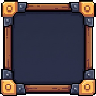
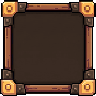
feat: add 5 cozy Pixel Art house scenes and warm dark-wood theme harmony

diff --git a/lib/features/house/house_tab.dart b/lib/features/house/house_tab.dart
@@ -99,8 +99,9 @@ class HouseTab extends ConsumerWidget {
               ),
               const SizedBox(height: 12),
 
-              // Sala 16-bit (usa cenário Pixel Art em assets/images/scenes/ se existir, ou gradiente temático)
-              ClipRect(
+              // Sala 16-bit com cenário Pixel Art 16:9 + Herói posicionado no chão
+              AspectRatio(
+                aspectRatio: 16 / 10,
                 child: Container(
                   width: double.infinity,
                   decoration: BoxDecoration(
@@ -112,125 +113,110 @@ class HouseTab extends ConsumerWidget {
                     border: Border.all(color: LifeOsColors.border, width: 2),
                   ),
                   child: Stack(
-                    alignment: Alignment.bottomCenter,
+                    fit: StackFit.expand,
                     children: [
-                      Positioned.fill(
-                        child: Image.asset(
-                          sceneAsset,
-                          fit: BoxFit.cover,
-                          filterQuality: FilterQuality.none,
-                          errorBuilder: (_, _, _) => const SizedBox.shrink(),
-                        ),
+                      Image.asset(
+                        sceneAsset,
+                        fit: BoxFit.cover,
+                        filterQuality: FilterQuality.none,
+                        errorBuilder: (_, _, _) => const SizedBox.shrink(),
                       ),
-                      Container(
-                        width: double.infinity,
-                        padding: const EdgeInsets.fromLTRB(14, 18, 14, 16),
+                      // Vinheta suave só na base para leitura e profundidade
+                      DecoratedBox(
                         decoration: BoxDecoration(
                           gradient: LinearGradient(
                             begin: Alignment.topCenter,
                             end: Alignment.bottomCenter,
+                            stops: const [0.0, 0.65, 1.0],
                             colors: [
-                              Colors.black.withValues(alpha: 0.12),
-                              Colors.black.withValues(alpha: 0.45),
+                              Colors.black.withValues(alpha: 0.08),
+                              Colors.transparent,
+                              Colors.black.withValues(alpha: 0.55),
                             ],
                           ),
                         ),
-                        child: Column(
-                          children: [
-                            if (ownedFurniture.isNotEmpty) ...[
-                              Wrap(
-                                spacing: 10,
-                                runSpacing: 8,
-                                alignment: WrapAlignment.center,
-                                children: ownedFurniture.map((f) {
-                                  return Tooltip(
-                                    message: '${f.name}: ${f.effectBadge}',
-                                    child: Container(
-                                      padding: const EdgeInsets.all(8),
-                                      decoration: BoxDecoration(
-                                        color: LifeOsColors.bgDark
-                                            .withValues(alpha: 0.8),
-                                        border: Border.all(
-                                          color: f.color,
-                                          width: 1.5,
-                                        ),
-                                      ),
-                                      child: Icon(
-                                        f.icon,
-                                        color: f.color,
-                                        size: 22,
-                                      ),
+                      ),
+                      // Móveis comprados exibidos no topo da cena
+                      if (ownedFurniture.isNotEmpty)
+                        Positioned(
+                          top: 8,
+                          left: 8,
+                          right: 8,
+                          child: Wrap(
+                            spacing: 6,
+                            runSpacing: 6,
+                            alignment: WrapAlignment.center,
+                            children: ownedFurniture.map((f) {
+                              return Tooltip(
+                                message: '${f.name}: ${f.effectBadge}',
+                                child: Container(
+                                  padding: const EdgeInsets.all(5),
+                                  decoration: BoxDecoration(
+                                    color: LifeOsColors.bgDark
+                                        .withValues(alpha: 0.78),
+                                    border: Border.all(
+                                      color: f.color,
+                                      width: 1.5,
                                     ),
-                                  );
-                                }).toList(),
-                              ),
-                              const SizedBox(height: 16),
-                            ],
-                            Row(
-                              mainAxisAlignment: MainAxisAlignment.center,
-                              crossAxisAlignment: CrossAxisAlignment.end,
-                              children: [
-                                HeroSpriteWidget(
-                                  assetPath: heroClass.spriteAsset,
-                                  size: 96,
-                                ),
-                                if (equippedPet != null) ...[
-                                  const SizedBox(width: 14),
-                                  Column(
-                                    children: [
-                                      Container(
-                                        padding: const EdgeInsets.all(8),
-                                        decoration: BoxDecoration(
-                                          color: LifeOsColors.bgDark,
-                                          border: Border.all(
-                                            color: equippedPet.color,
-                                            width: 2,
-                                          ),
-                                        ),
-                                        child: Icon(
-                                          equippedPet.icon,
-                                          color: equippedPet.color,
-                                          size: 28,
-                                        ),
-                                      ),
-                                      const SizedBox(height: 4),
-                                      Text(
-                                        equippedPet.name.split(' ').first,
-                                        style: TextStyle(
-                                          fontSize: 11,
-                                          fontWeight: FontWeight.w800,
-                                          color: equippedPet.color,
-                                        ),
-                                      ),
-                                    ],
                                   ),
-                                ],
-                              ],
+                                  child: Icon(
+                                    f.icon,
+                                    color: f.color,
+                                    size: 16,
+                                  ),
+                                ),
+                              );
+                            }).toList(),
+                          ),
+                        ),
+                      // Herói animado + Pet em pé sobre o tapete/chão da cena
+                      Align(
+                        alignment: const Alignment(0, 0.68),
+                        child: Row(
+                          mainAxisSize: MainAxisSize.min,
+                          crossAxisAlignment: CrossAxisAlignment.end,
+                          children: [
+                            HeroSpriteWidget(
+                              assetPath: heroClass.spriteAsset,
+                              size: 86,
                             ),
-                            const SizedBox(height: 10),
-                            Container(
-                              height: 8,
-                              width: double.infinity,
-                              color: const Color(0xFF4A362C),
-                            ),
-                            const SizedBox(height: 10),
-                            Text(
-                              equippedScene != null
-                                  ? equippedScene.name
-                                  : (nextStage != null
-                                      ? 'Próxima evolução: ${nextStage.nextName} (Nv. ${nextStage.nextLevel})'
-                                      : 'Sua Casa alcançou o estágio máximo!'),
-                              style: const TextStyle(
-                                fontSize: 12,
-                                color: LifeOsColors.textPrimary,
-                                fontWeight: FontWeight.w800,
+                            if (equippedPet != null) ...[
+                              const SizedBox(width: 8),
+                              Container(
+                                padding: const EdgeInsets.all(6),
+                                decoration: BoxDecoration(
+                                  color: LifeOsColors.bgDark
+                                      .withValues(alpha: 0.85),
+                                  border: Border.all(
+                                    color: equippedPet.color,
+                                    width: 1.5,
+                                  ),
+                                ),
+                                child: Icon(
+                                  equippedPet.icon,
+                                  color: equippedPet.color,
+                                  size: 22,
+                                ),
                               ),
-                            ),
+                            ],
                           ],
                         ),
                       ),
                     ],
                   ),
+                ),
+              ),
+              const SizedBox(height: 10),
+              Text(
+                equippedScene != null
+                    ? equippedScene.name
+                    : (nextStage != null
+                        ? 'Próxima evolução: ${nextStage.nextName} (Nv. ${nextStage.nextLevel})'
+                        : 'Sua Casa alcançou o estágio máximo!'),
+                style: const TextStyle(
+                  fontSize: 12,
+                  color: LifeOsColors.textSecondary,
+                  fontWeight: FontWeight.w700,
                 ),
               ),
             ],

diff --git a/lib/core/theme/lifeos_theme.dart b/lib/core/theme/lifeos_theme.dart
@@ -1,25 +1,26 @@
-import 'package:material_ui/material_ui.dart';
 import 'package:google_fonts/google_fonts.dart';
+import 'package:material_ui/material_ui.dart';
 
-/// Paleta RPG 16-bit aconchegante (Stardew Valley / Chrono Trigger em modo escuro).
+/// Paleta RPG 16-bit aconchegante em tons de madeira escura e pergaminho
+/// (harmonizada com as molduras de madeira/ouro e os cenários da Casa Viva).
 class LifeOsColors {
   const LifeOsColors._();
 
-  static const Color bgDark = Color(0xFF1A1C2C);
-  static const Color surface = Color(0xFF262B44);
-  static const Color surfaceHighlight = Color(0xFF333C57);
-  static const Color border = Color(0xFF566C86);
-  static const Color borderLight = Color(0xFF94B0C2);
+  static const Color bgDark = Color(0xFF1B1412);
+  static const Color surface = Color(0xFF2A1F1B);
+  static const Color surfaceHighlight = Color(0xFF3A2B24);
+  static const Color border = Color(0xFF6E4E3A);
+  static const Color borderLight = Color(0xFFA87F5C);
 
   static const Color gold = Color(0xFFFFCD75);
   static const Color goldDark = Color(0xFFD68C45);
   static const Color xpBar = Color(0xFF73EFF7);
-  static const Color success = Color(0xFF38B764);
-  static const Color danger = Color(0xFFE43B44);
+  static const Color success = Color(0xFF56C271);
+  static const Color danger = Color(0xFFE4525A);
 
-  static const Color textPrimary = Color(0xFFF4F4F4);
-  static const Color textSecondary = Color(0xFFB8C4D4);
-  static const Color textMuted = Color(0xFF7F90A6);
+  static const Color textPrimary = Color(0xFFF7EFE6);
+  static const Color textSecondary = Color(0xFFCDBAA8);
+  static const Color textMuted = Color(0xFF947E6B);
 }
 
 class LifeOsTheme {
@@ -76,6 +77,15 @@ class LifeOsTheme {
           borderSide: BorderSide(color: LifeOsColors.gold, width: 2),
         ),
       ),
+      chipTheme: ChipThemeData(
+        backgroundColor: LifeOsColors.surface,
+        selectedColor: LifeOsColors.gold.withValues(alpha: 0.25),
+        side: const BorderSide(color: LifeOsColors.border),
+        labelStyle: const TextStyle(
+          color: LifeOsColors.textPrimary,
+          fontWeight: FontWeight.w700,
+        ),
+      ),
       navigationBarTheme: NavigationBarThemeData(
         backgroundColor: LifeOsColors.surface,
         indicatorColor: LifeOsColors.gold.withValues(alpha: 0.18),
@@ -98,4 +108,3 @@ class LifeOsTheme {
     );
   }
 }
-
